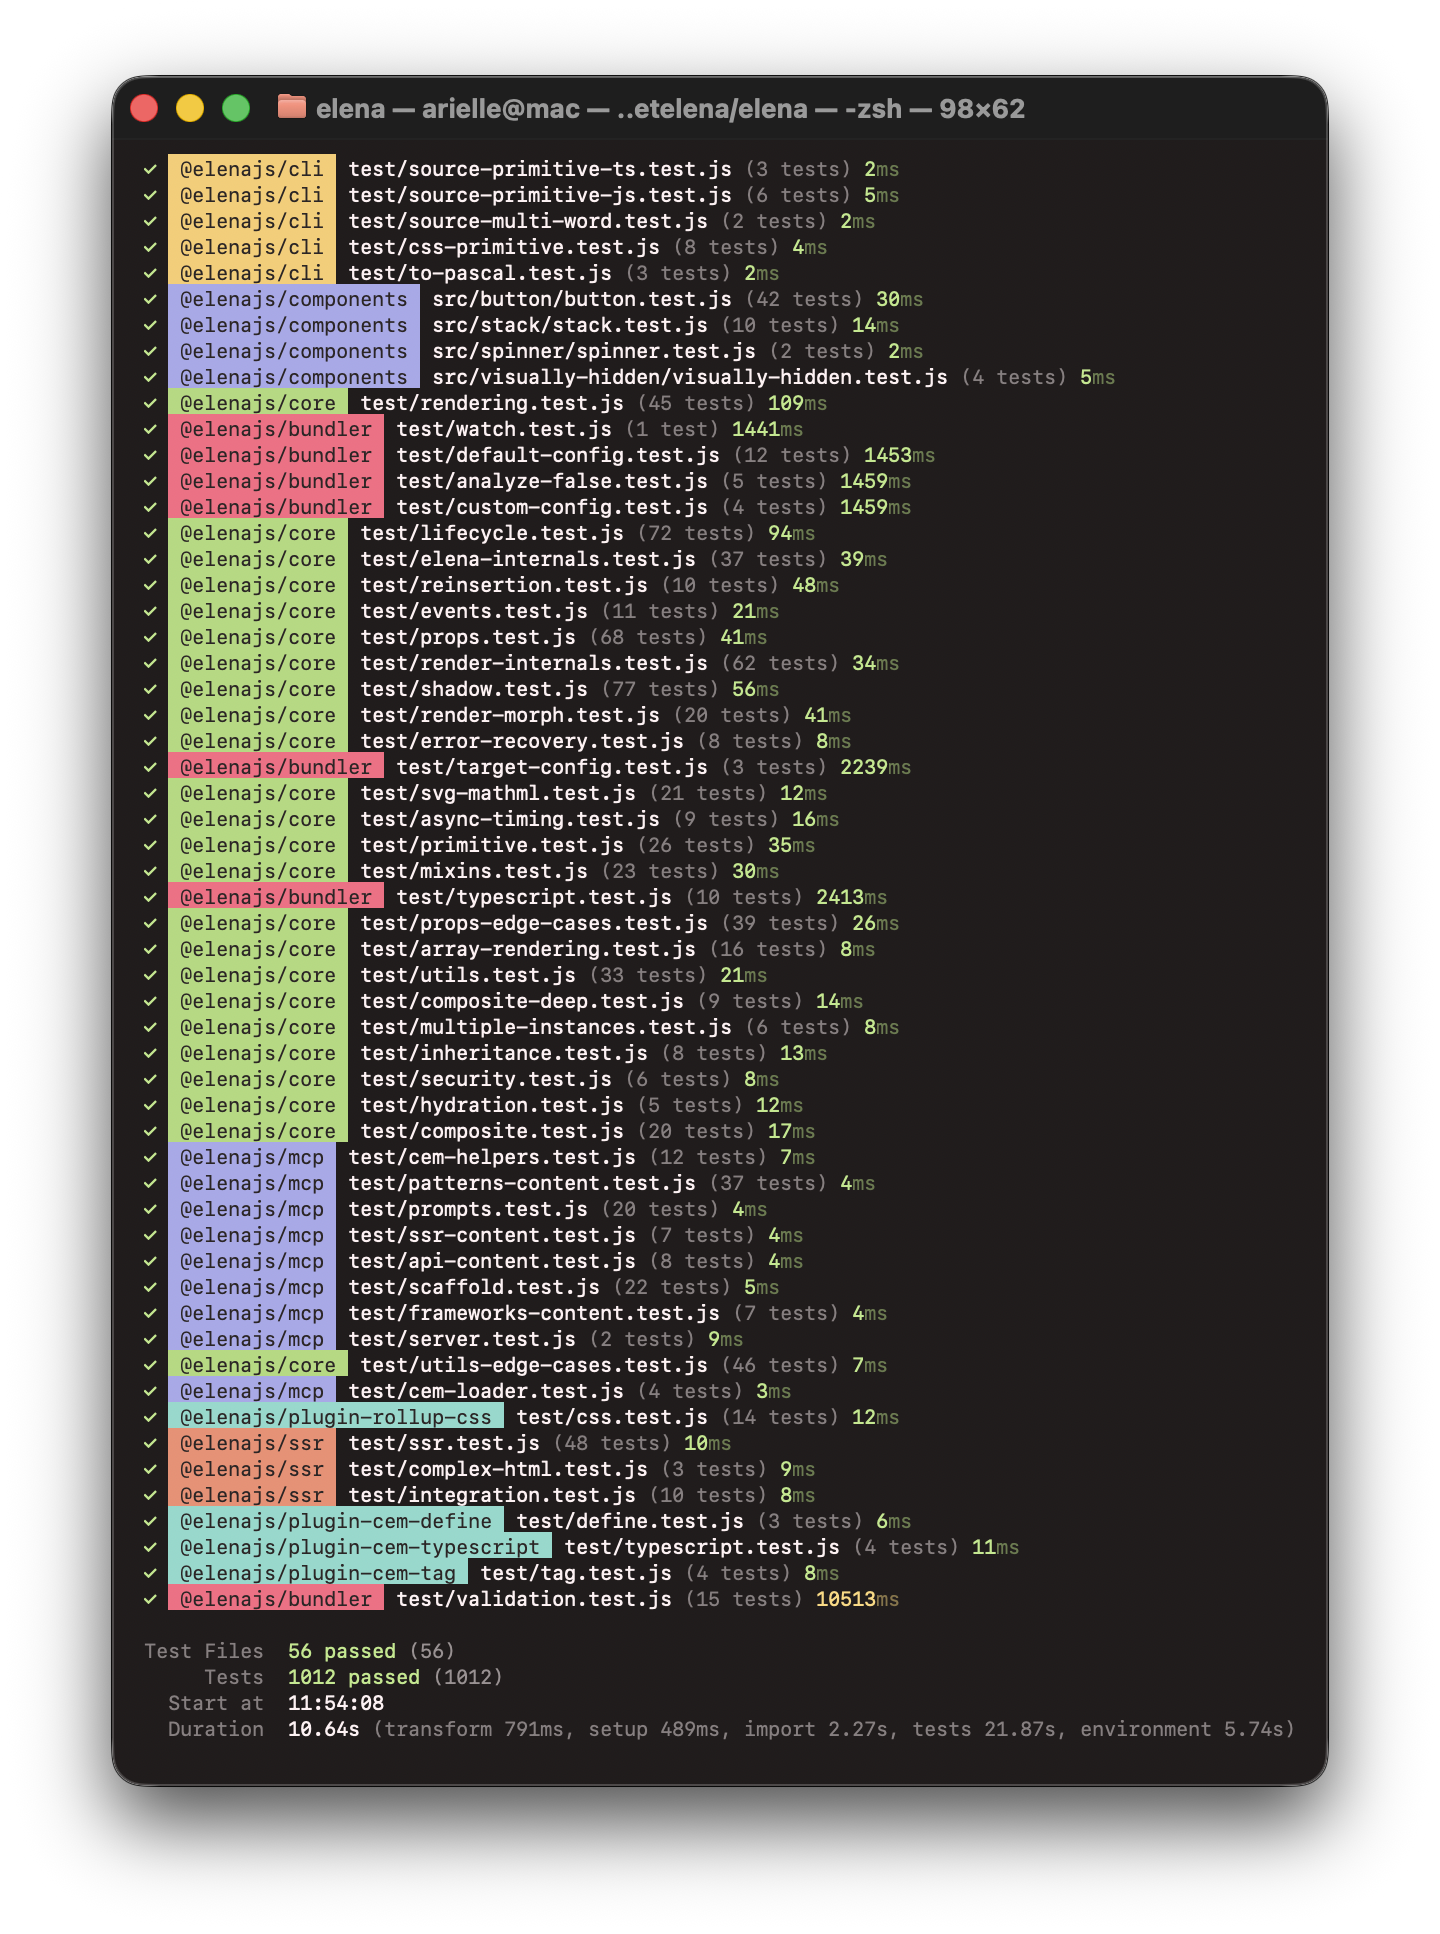
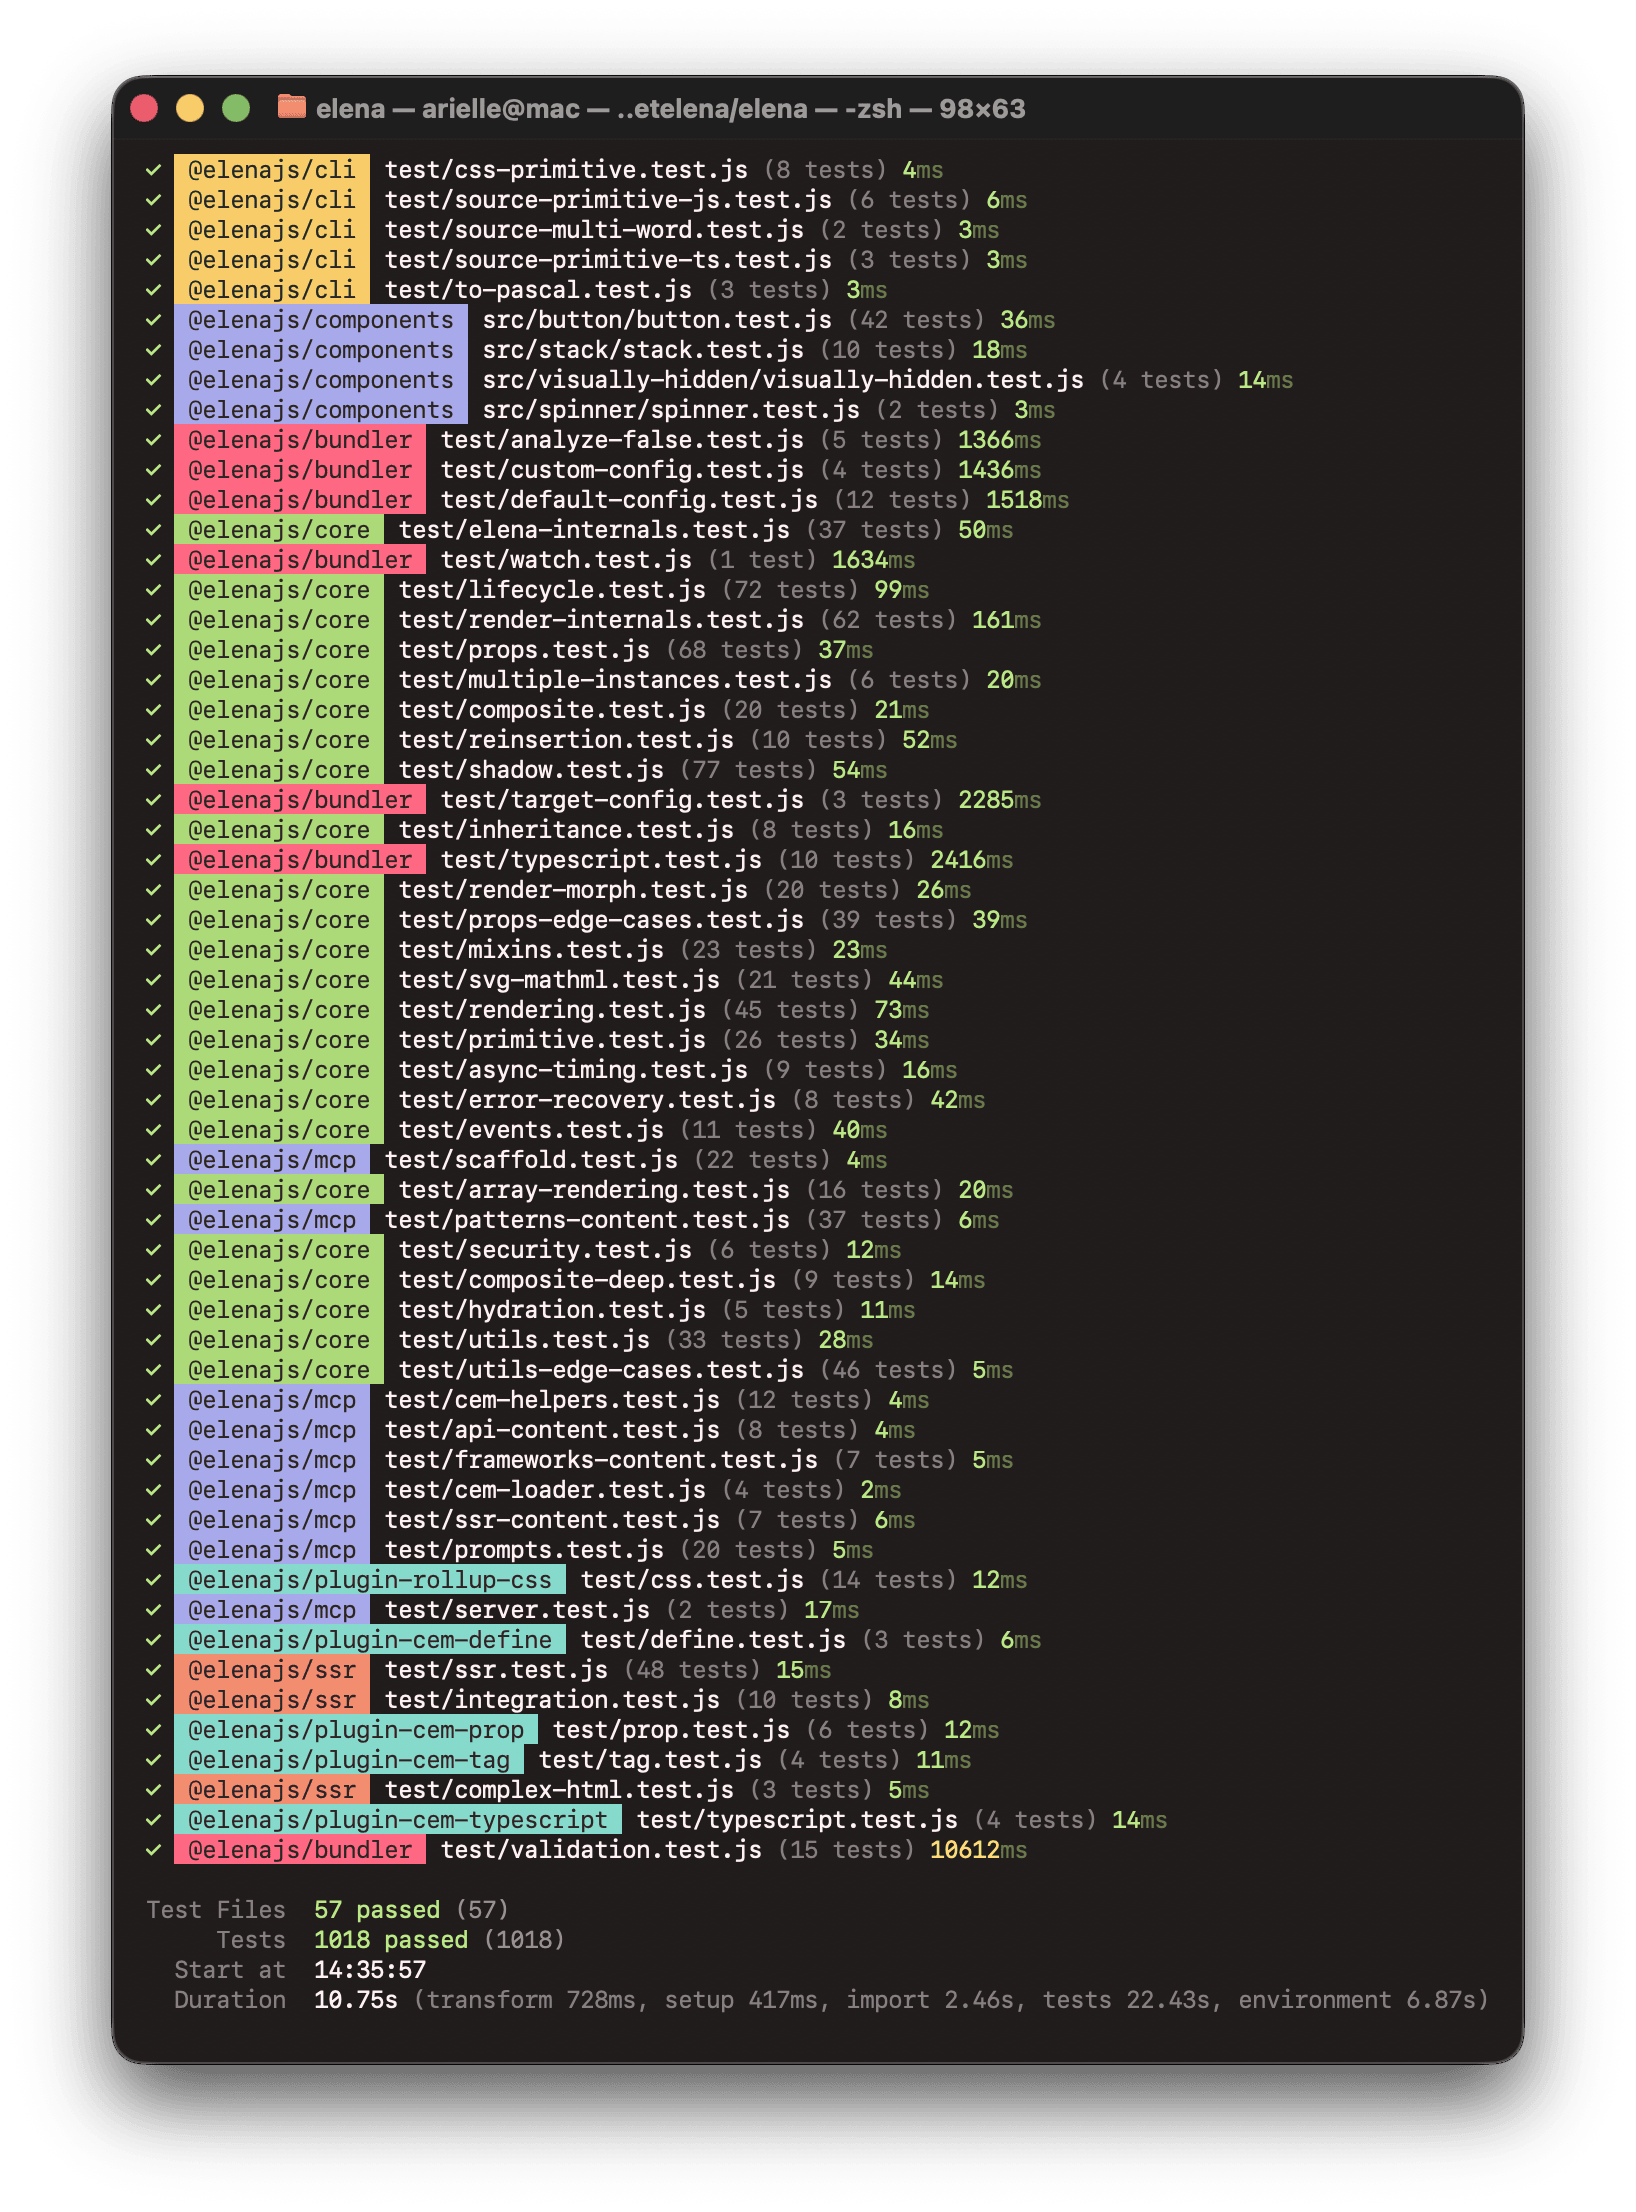
[docs]: Update FAQ on testing

Changed region(s): [[0.0625, 0.031, 0.9375, 0.9617], [0.75, 0.1551, 0.7812, 0.1861], [0.6875, 0.8066, 0.7188, 0.8376]]

diff --git a/docs/advanced/faq.md b/docs/advanced/faq.md
@@ -85,9 +85,9 @@ When you look at the above screenshot, keep in mind that Elena defaults to Light
 
 ## How is Elena tested?
 
-Elena has a comprehensive automated test suite with 1000+ tests across 56 test files covering unit tests, integration tests, visual diff tests, and benchmark tests:
+Elena has a comprehensive automated test suite with 1000+ tests across 57 test files covering unit tests, integration tests, visual diff tests, and benchmark tests:
 
-<img src="/tests.png" loading="lazy" width="1440" height="1934" alt="Elena vitest test suite" />
+<img src="/tests.png" loading="lazy" width="1636" height="2212" alt="Elena vitest test suite" />
 
 Additionally, the `@elenajs/core` library is proud to ship with 100% test coverage across all of its source code:
 
